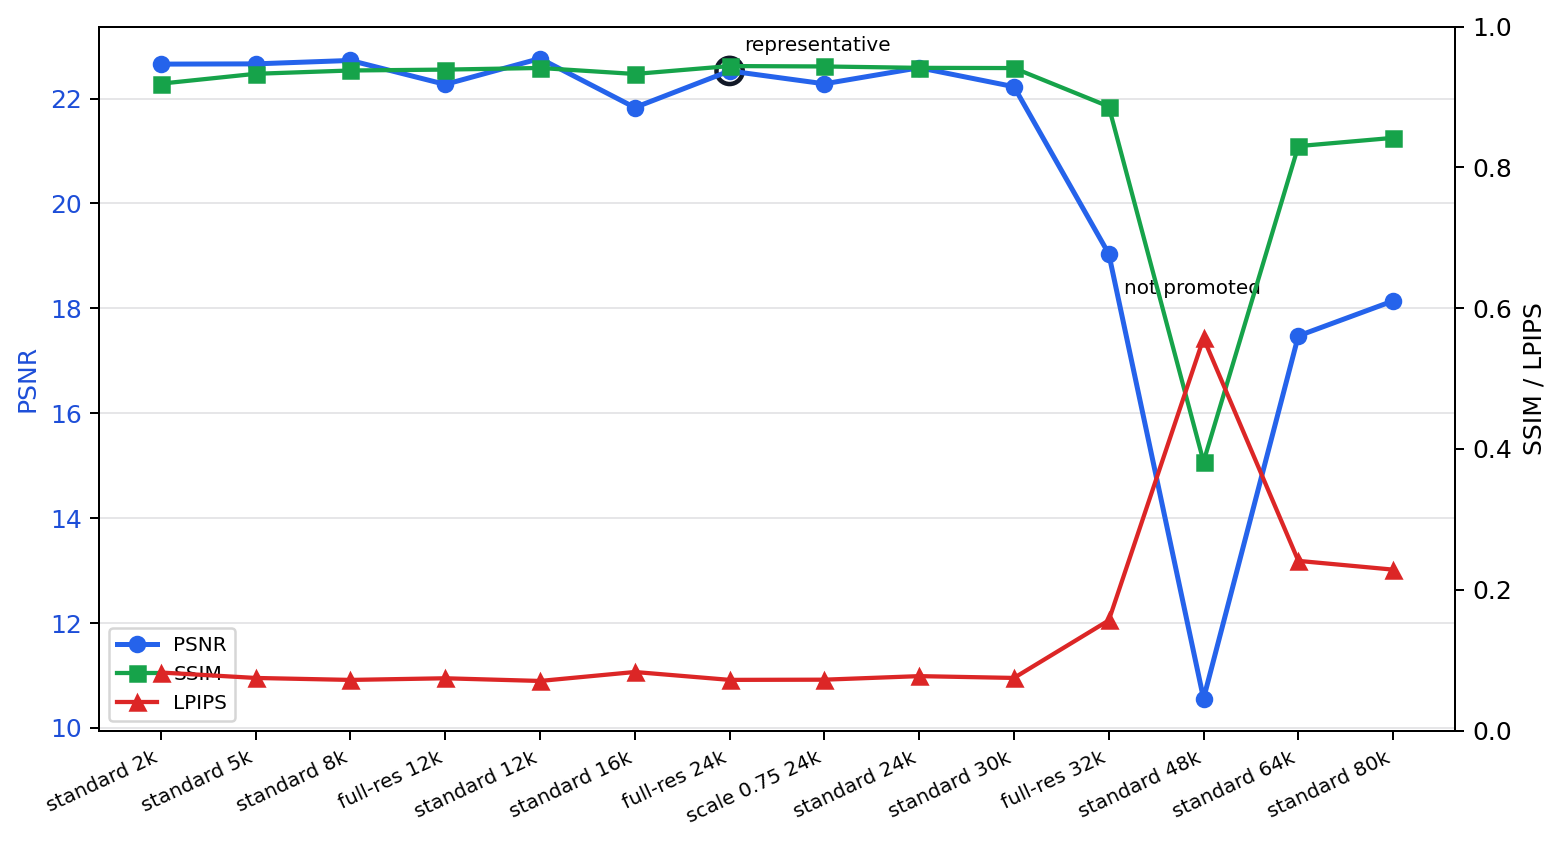
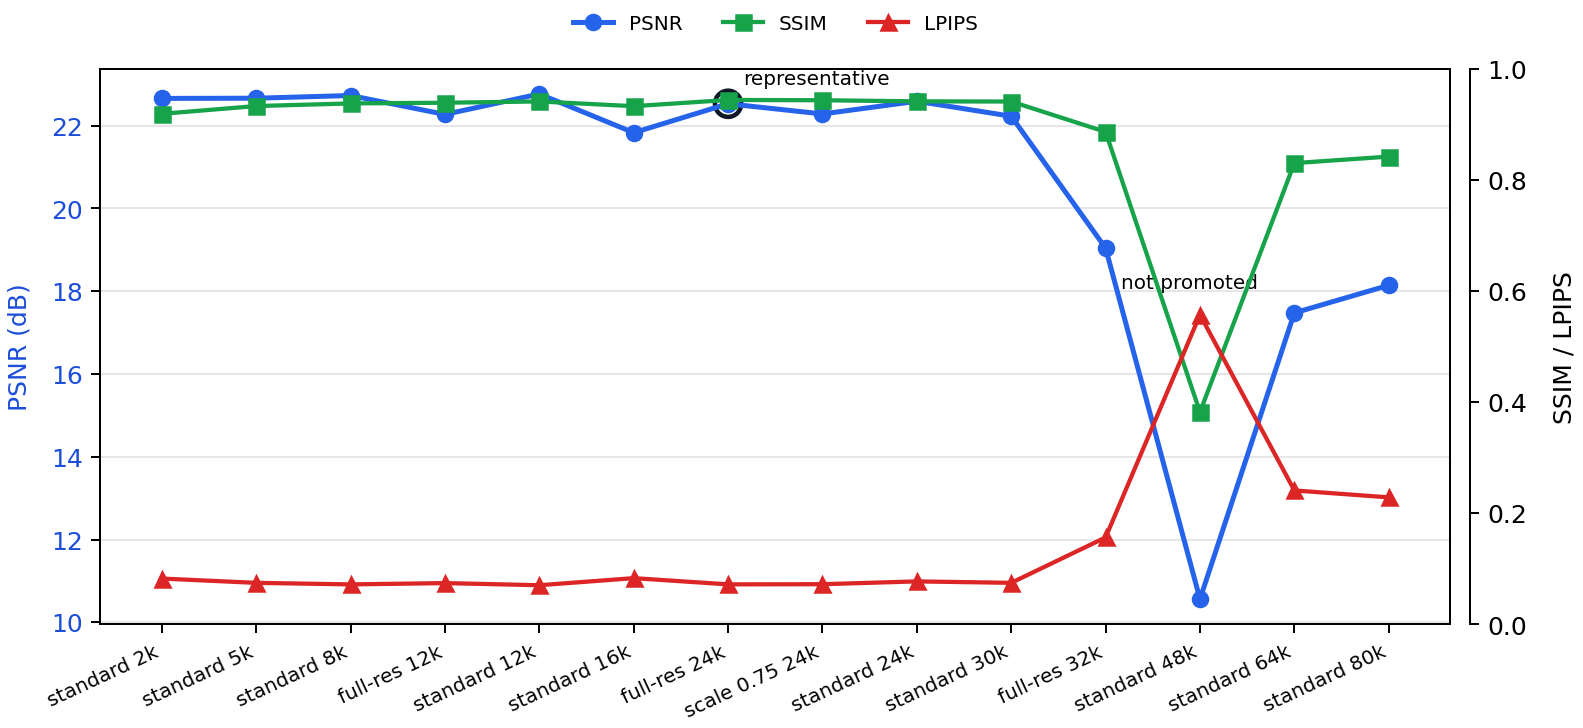
Fix supplementary Nerfacto sweep plot

diff --git a/scripts/build_marinecity_nerfacto_sweep_artifacts.py b/scripts/build_marinecity_nerfacto_sweep_artifacts.py
@@ -21,6 +21,7 @@ RUN_DIR = ROOT / "outputs/experiments/3d_generation/nerfstudio_native_runs"
 OUT_CSV = ROOT / "outputs/reports/live/marinecity_nerfacto_iteration_sweep.csv"
 OUT_MD = ROOT / "outputs/reports/live/marinecity_nerfacto_iteration_sweep.md"
 OUT_PNG = ROOT / "outputs/reports/live/marinecity_nerfacto_iteration_sweep.png"
+PAPER_PNG = ROOT / "paper/figures/results/marinecity_system/marinecity_nerfacto_iteration_sweep.png"
 OUT_TEX = ROOT / "paper/tables/marinecity_nerfacto_iteration_sweep_table.tex"
 
 REPRESENTATIVE_STATUS = "complete_native_marinecity_nerfacto_torch_split067_noapp_fullres_24k"
@@ -213,7 +214,7 @@ def write_png(rows: list[dict[str, Any]]) -> None:
     if not plotted:
         return
 
-    fig, ax1 = plt.subplots(figsize=(8.8, 4.8), dpi=180)
+    fig, ax1 = plt.subplots(figsize=(9.2, 4.9), dpi=180)
     variants = [row["variant"] for row in plotted]
     x = list(range(len(plotted)))
     psnr = [row["PSNR"] for row in plotted]
@@ -221,7 +222,7 @@ def write_png(rows: list[dict[str, Any]]) -> None:
     lpips = [row["LPIPS"] for row in plotted]
 
     ax1.plot(x, psnr, marker="o", linewidth=2.0, color="#2563eb", label="PSNR")
-    ax1.set_ylabel("PSNR", color="#1d4ed8")
+    ax1.set_ylabel("PSNR (dB)", color="#1d4ed8", labelpad=8)
     ax1.tick_params(axis="y", labelcolor="#1d4ed8")
     ax1.grid(axis="y", color="#d4d4d8", linewidth=0.7, alpha=0.65)
     ax1.set_xticks(x)
@@ -230,8 +231,9 @@ def write_png(rows: list[dict[str, Any]]) -> None:
     ax2 = ax1.twinx()
     ax2.plot(x, ssim, marker="s", linewidth=1.7, color="#16a34a", label="SSIM")
     ax2.plot(x, lpips, marker="^", linewidth=1.7, color="#dc2626", label="LPIPS")
-    ax2.set_ylabel("SSIM / LPIPS")
+    ax2.set_ylabel("SSIM / LPIPS", labelpad=10)
     ax2.set_ylim(0.0, 1.0)
+    ax2.spines["right"].set_position(("outward", 8))
 
     for idx, row in enumerate(plotted):
         if row["paper_use"] == "representative":
@@ -242,10 +244,20 @@ def write_png(rows: list[dict[str, Any]]) -> None:
 
     lines1, labels1 = ax1.get_legend_handles_labels()
     lines2, labels2 = ax2.get_legend_handles_labels()
-    ax1.legend(lines1 + lines2, labels1 + labels2, loc="lower left", fontsize=8)
-    fig.tight_layout()
+    ax1.legend(
+        lines1 + lines2,
+        labels1 + labels2,
+        loc="upper center",
+        bbox_to_anchor=(0.5, 1.13),
+        ncol=3,
+        fontsize=8,
+        frameon=False,
+    )
+    fig.subplots_adjust(left=0.085, right=0.90, bottom=0.22, top=0.85)
     OUT_PNG.parent.mkdir(parents=True, exist_ok=True)
-    fig.savefig(OUT_PNG)
+    PAPER_PNG.parent.mkdir(parents=True, exist_ok=True)
+    fig.savefig(OUT_PNG, bbox_inches="tight", pad_inches=0.04)
+    fig.savefig(PAPER_PNG, bbox_inches="tight", pad_inches=0.04)
     plt.close(fig)
 
 
@@ -262,6 +274,7 @@ def main() -> None:
                 "csv": str(OUT_CSV.relative_to(ROOT)),
                 "markdown": str(OUT_MD.relative_to(ROOT)),
                 "png": str(OUT_PNG.relative_to(ROOT)),
+                "paper_png": str(PAPER_PNG.relative_to(ROOT)),
                 "tex": str(OUT_TEX.relative_to(ROOT)),
             },
             indent=2,
